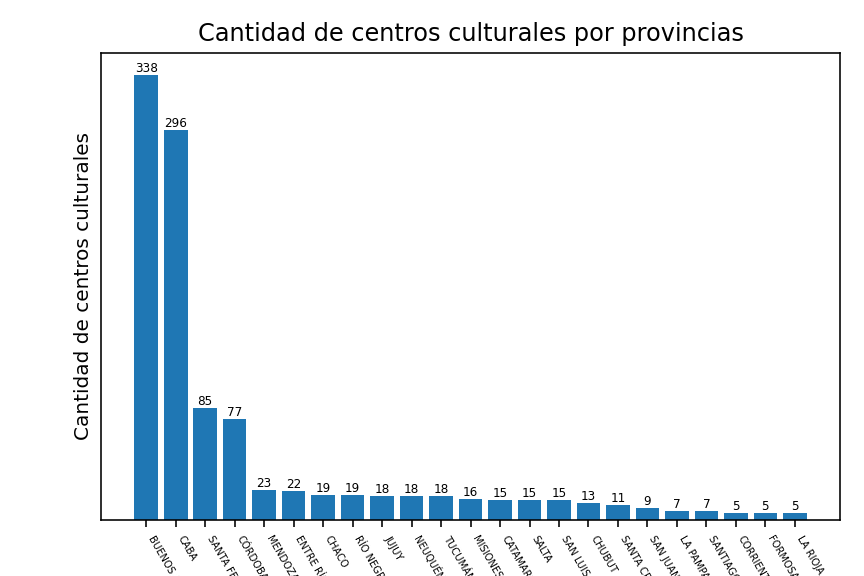
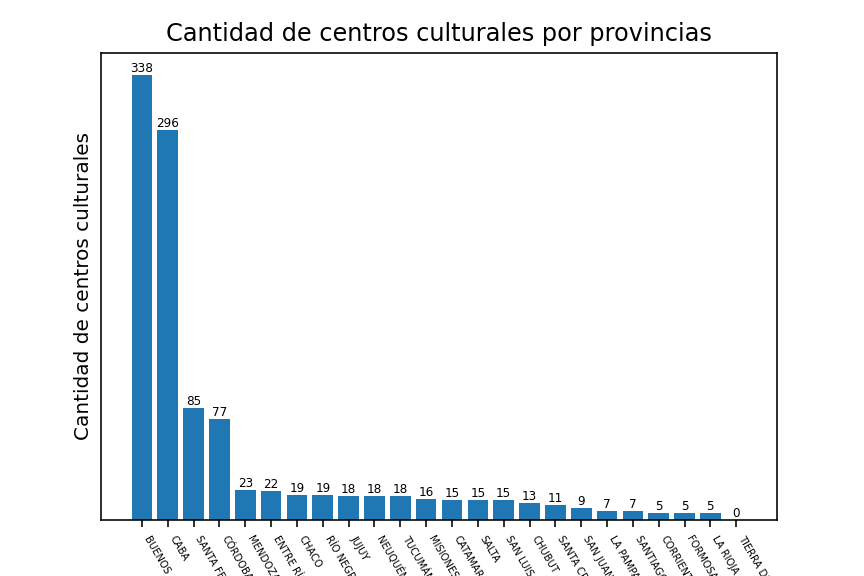
iv

Changed region(s): [[0.1562, 0.0938, 0.9688, 1.0], [0.1875, 0.0312, 0.875, 0.0938], [0.9062, 0.0625, 0.9688, 0.0938]]

diff --git a/tp1.py b/tp1.py
@@ -647,25 +647,33 @@ ejercicio_iv = dd.sql("""
 """------------------------------------------Ejercicio i)-----------------------------------------------------------"""
 
 cantidad_de_cc_por_provincia = dd.sql("""
-                                 	SELECT ID_PROV, sum(cc_por_depto) as cant_de_cc_por_prov
-                                 	FROM cantidad_cc_por_deptos
-                                 	GROUP BY ID_PROV
+                                  SELECT ID_PROV, sum(cc_por_depto) as cant_de_cc_por_prov
+                                  FROM cantidad_cc_por_deptos
+                                  GROUP BY ID_PROV
 """).df()
 
+
 cantidad_de_cc_por_provincia_con_nombre = dd.sql("""
-                                             	SELECT c.cant_de_cc_por_prov, REPLACE(REPLACE(Provincia, 'TIERRA DEL FUEGO, ANTÁRTIDA E ISLAS DEL ATLÁNTICO SUR', 'TIERRA DEL FUEGO...'), 'CIUDAD AUTÓNOMA DE BUENOS AIRES', 'CABA') AS Provincia
-                                             	FROM provincia as p
-                                             	JOIN cantidad_de_cc_por_provincia AS c
-                                             	ON p.ID_PROV = c.ID_PROV
-                                             	ORDER BY cant_de_cc_por_prov DESC
-                                             	""").df()
+                                  SELECT
+                                      CASE
+                                          WHEN c.cant_de_cc_por_prov IS NULL
+                                          THEN 0
+                                          ELSE cant_de_cc_por_prov
+                                      END AS cant_de_cc_por_prov,
+                                      REPLACE(REPLACE(Provincia, 'TIERRA DEL FUEGO, ANTÁRTIDA E ISLAS DEL ATLÁNTICO SUR', 'TIERRA DEL FUEGO...'), 'CIUDAD AUTÓNOMA DE BUENOS AIRES', 'CABA') AS Provincia
+                                  FROM provincia as p
+                                  LEFT OUTER JOIN cantidad_de_cc_por_provincia AS c
+                                  ON p.ID_PROV = c.ID_PROV
+                                  ORDER BY cant_de_cc_por_prov DESC
+    """).df()
 
 
 fig, ax = plt.subplots()
-
 plt.rcParams['font.family'] = 'sans-serif'
 
+
 ax.bar(data = cantidad_de_cc_por_provincia_con_nombre, x='Provincia', height='cant_de_cc_por_prov')
+
 
 ax.set_title('Cantidad de centros culturales por provincias')
 ax.set_ylabel('Cantidad de centros culturales', fontsize='medium')
@@ -674,8 +682,8 @@ plt.xticks(rotation=-60, fontsize=5, ha = 'left')
 ax.bar_label(ax.containers[0], fontsize=6)
 ax.set_yticks([])
 
-
 fig.savefig('i')
+
 #%%
 """------------------------------------------Ejercicio ii)----------------------------------------------------------"""
              
@@ -847,7 +855,7 @@ proporciones["proporcion_cc_1000_hab"] = (proporciones["cc_por_depto"] / proporc
 ejercicio_iii.fillna(0, inplace=True)
 
 # Ordenamos el proporciones por población para una mejor visualización
-proporciones = ejercicio_iii.sort_values("poblacion")
+proporciones = proporciones.sort_values("poblacion")
 
 
 ejercicio_iii_por_prov = dd.sql("""
@@ -856,7 +864,7 @@ ejercicio_iii_por_prov = dd.sql("""
                                     GROUP BY Provincia
 """).df()
 
-proporciones = ejercicio_iii.sort_values('poblacion')
+proporciones = proporciones.sort_values('poblacion')
 
 
 ## Graficamos
@@ -870,14 +878,14 @@ proporciones["Provincia"] = proporciones["Provincia"].replace({
 })
 
 # Reestructurar el DataFrame para Seaborn
-df_melted = proporciones.melt(id_vars=["Provincia"],
+df_resultado = proporciones.melt(id_vars=["Provincia"],
                               value_vars=["proporcion_ee_1000_hab", "proporcion_cc_1000_hab"],
                               var_name="Tipo",
                               value_name="Proporción")
 
 # Crear el gráfico de barras agrupadas
 plt.figure(figsize=(12, 6))
-sns.barplot(data=df_melted, x="Provincia", y="Proporción", hue="Tipo", palette=["blue", "orange"], errorbar=None)
+sns.barplot(data=df_resultado, x="Provincia", y="Proporción", hue="Tipo", palette=["blue", "orange"], errorbar=None)
 
 # Rotar etiquetas en el eje X para mejor visualización
 plt.xticks(rotation=90)
@@ -911,15 +919,15 @@ proporciones["Provincia"] = proporciones["Provincia"].replace({
     "Ciudad Autónoma De Buenos Aires": "Caba"
 })
 
-df_melted = proporciones.melt(id_vars=["Provincia"],
+df_resultado = proporciones.melt(id_vars=["Provincia"],
                               value_vars=["proporcion_ee_1000_hab", "proporcion_cc_1000_hab"],
                               var_name="Tipo",
                               value_name="Proporción")
 
-df_melted.loc[df_melted["Tipo"] == "proporcion_cc_1000_hab", "Proporción"] *= factor_escala_cc
+df_resultado.loc[df_resultado["Tipo"] == "proporcion_cc_1000_hab", "Proporción"] *= factor_escala_cc
 
 plt.figure(figsize=(12, 6))
-sns.barplot(data=df_melted, x="Provincia", y="Proporción", hue="Tipo", palette=["blue", "orange"], errorbar=None)
+sns.barplot(data=df_resultado, x="Provincia", y="Proporción", hue="Tipo", palette=["blue", "orange"], errorbar=None)
 
 plt.xticks(rotation=-50, fontsize=8)  
 plt.yticks(fontsize=8)
